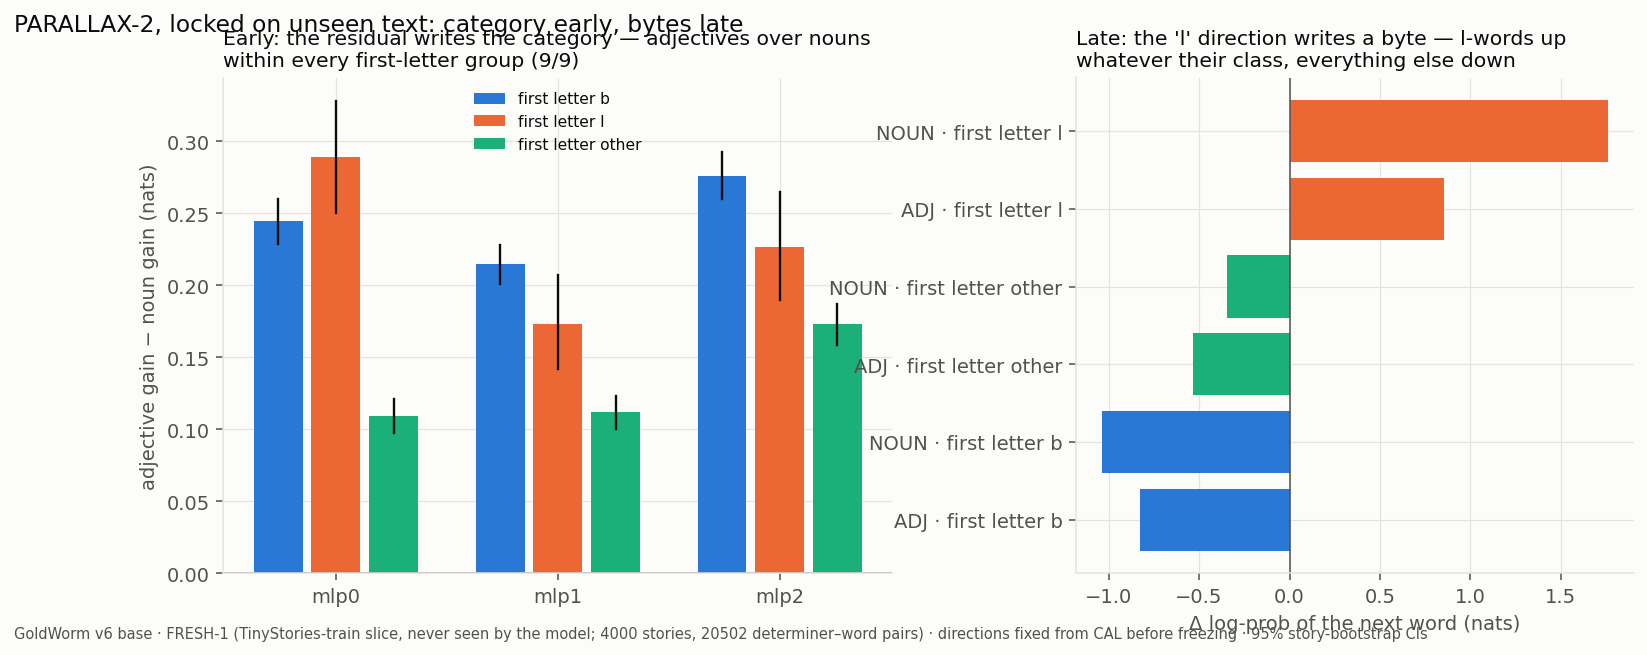
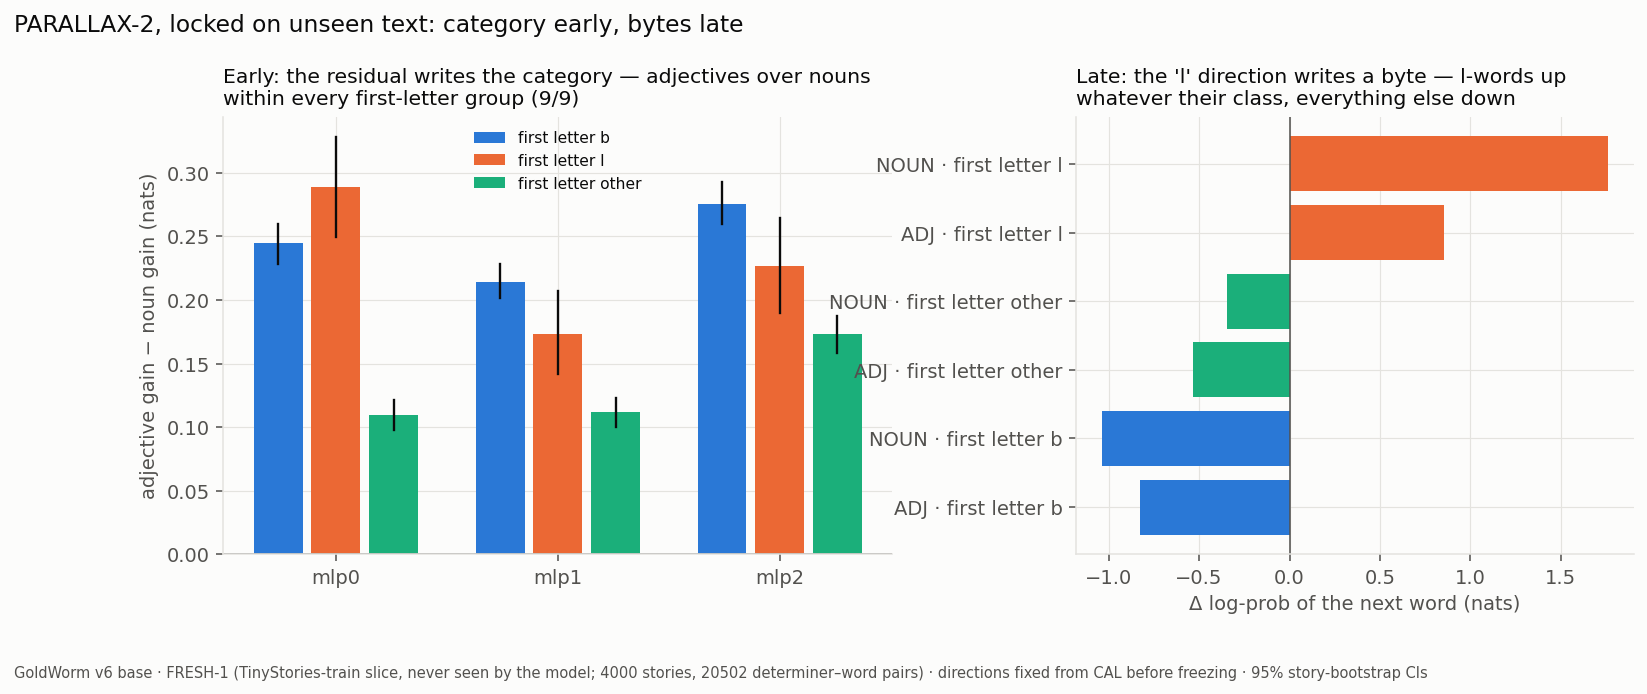
kindscope: PARALLAX-2 figure layout fix
Claude-Session: https://claude.ai/code/session_01DjoDaDWW9E55L6ZqqDdUEZ

diff --git a/experiments/kindscope/figs_parallax2_lock.py b/experiments/kindscope/figs_parallax2_lock.py
@@ -21,7 +21,8 @@ ax2.set_yticks(range(len(order)), [g.replace("_", " · first letter ") for g in 
 ax2.axvline(0, color=INK2, lw=0.8); ax2.set_xlabel("Δ log-prob of the next word (nats)")
 ax2.set_title("Late: the 'l' direction writes a byte — l-words up\nwhatever their class, everything else down",
               loc="left", fontsize=10.5)
-fig.suptitle("PARALLAX-2, locked on unseen text: category early, bytes late", x=0.01, ha="left", fontsize=12)
+fig.suptitle("PARALLAX-2, locked on unseen text: category early, bytes late", x=0.01, y=1.04, ha="left", fontsize=12)
+fig.subplots_adjust(bottom=0.2)
 frame(fig, f"GoldWorm v6 base · FRESH-1 (TinyStories-train slice, never seen by the model; {r['counts']['fresh_stories_kept']} "
            f"stories, {r['counts']['pairs']} determiner–word pairs) · directions fixed from CAL before freezing · 95% story-bootstrap CIs")
 fig.savefig(sys.argv[2], dpi=140, facecolor=SURF, bbox_inches="tight")
